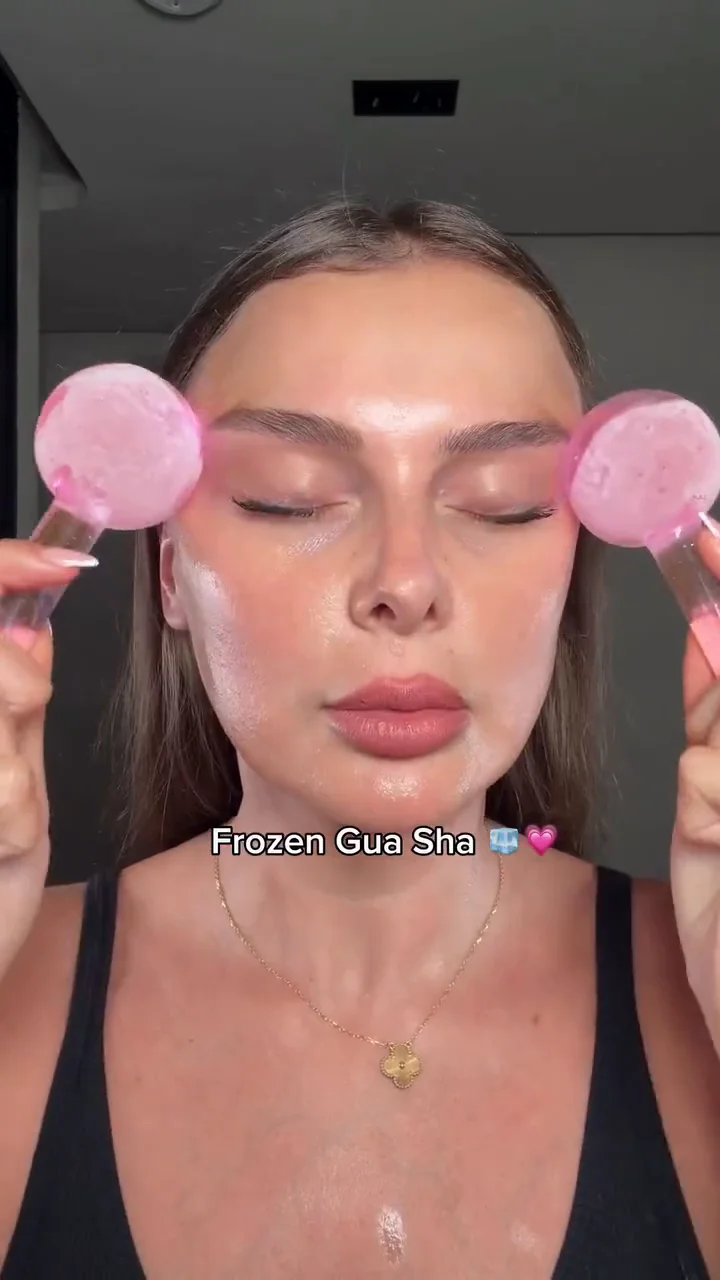
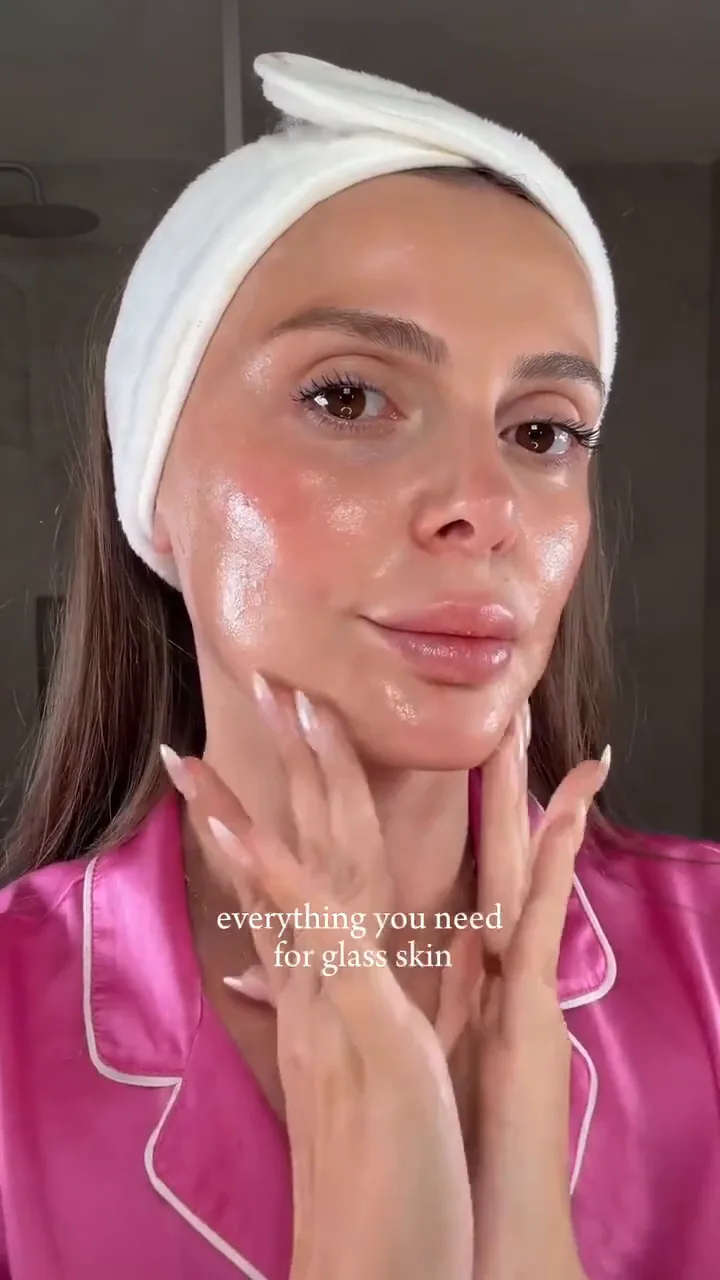
feat: july 2026 round-4 client revisions across home and services
- MediaCarousel (This is CA Agency): reels now play to the end and
  auto-advance on ended instead of a fixed 4s timer cutting them off;
  the timer still drives image slides and autoplay-refused posters, and
  a paused carousel keeps the current reel looping in place
- Featured work strip: Dariia YSL Beauty reel dropped on client request
  (large YSL logo baked into the footage); strip reflows to 3 tiles
  (Anton -> Albina -> Saranda) with the odd tile centered on mobile
- Services page: cards trimmed a size on client request - 3-up grid
  from lg (6 tiles -> 3x2), 4:5 media box on every breakpoint (was 3:4
  on tablet/mobile), smaller overlay title/padding, tighter image sizes
- Performance Marketing card: Huda still replaced with CA talent
  Beatrix (Juvia's Place reel frame, no brand watermark) - Huda is not
  on the roster
- Brand Consultancy card: eyes-closed gua sha still replaced with an
  Albina glass-skin frame from the clean reel-DaYtlPgN9aa
- No DB patch needed this round: the featured strip and service stills
  are code/static assets; the CMS home row's intro mediaItems are
  untouched

diff --git a/components/blocks/MediaCarousel.tsx b/components/blocks/MediaCarousel.tsx
@@ -72,12 +72,17 @@ export default function MediaCarousel({ items, className = '' }: MediaCarouselPr
     setCurrentIndex((prev) => (prev - 1 + items.length) % items.length)
   }, [items.length])
 
-  // Auto-advance only when nothing is suppressing it.
+  // Auto-advance only when nothing is suppressing it. Video slides advance
+  // when playback finishes (onEnded) so a reel is never cut off mid-play; the
+  // timer only drives image slides and video slides whose autoplay was
+  // refused (poster held, `ended` would never fire).
+  const activeItemType = items[currentIndex]?.type
   useEffect(() => {
     if (!isAutoAdvanceEnabled) return
+    if (activeItemType === 'video' && !needsGestureRetry) return
     const timer = setInterval(next, 4000)
     return () => clearInterval(timer)
-  }, [isAutoAdvanceEnabled, next])
+  }, [isAutoAdvanceEnabled, activeItemType, needsGestureRetry, next])
 
   // Pause non-active videos, play active
   useEffect(() => {
@@ -177,10 +182,21 @@ export default function MediaCarousel({ items, className = '' }: MediaCarouselPr
                       poster={item.poster}
                       autoPlay={isActive}
                       muted
-                      loop
                       playsInline
                       preload="none"
                       className="w-full h-full object-cover"
+                      onEnded={(e) => {
+                        if (index !== currentIndex) return
+                        if (isAutoAdvanceEnabled) {
+                          next()
+                        } else {
+                          // Paused (manually or via hover/reduced motion):
+                          // keep the current reel looping in place.
+                          const video = e.currentTarget
+                          video.currentTime = 0
+                          video.play().catch(() => {})
+                        }
+                      }}
                     />
                   ) : (
                     <div className="w-full h-full bg-black/10" />

diff --git a/components/blocks/VideoShowcase.tsx b/components/blocks/VideoShowcase.tsx
@@ -5,7 +5,7 @@ import { posterFor } from '@/lib/data/videos'
 
 interface VideoShowcaseProps {
   videos: Array<{ src: string; alt?: string; poster?: string }>
-  columns?: 2 | 4
+  columns?: 2 | 3 | 4
 }
 
 export default function VideoShowcase({
@@ -14,13 +14,26 @@ export default function VideoShowcase({
 }: VideoShowcaseProps) {
   const gridClasses = {
     2: 'grid-cols-1 md:grid-cols-2',
+    3: 'grid-cols-2 md:grid-cols-3',
     4: 'grid-cols-2 md:grid-cols-4',
   }
 
   return (
     <Stagger className={`grid ${gridClasses[columns]} gap-[24px] mobile:gap-[16px]`} stagger={0.08}>
-      {videos.map((video, index) => (
-        <StaggerItem key={index} className="w-full hover-lift">
+      {videos.map((video, index) => {
+        // On the 2-col mobile grid an odd trailing tile would sit alone in
+        // the left cell; span the row and center it at sibling width instead.
+        const isLoneLastOnMobile =
+          columns === 3 && videos.length % 2 === 1 && index === videos.length - 1
+        return (
+        <StaggerItem
+          key={index}
+          className={`w-full hover-lift${
+            isLoneLastOnMobile
+              ? ' mobile:col-span-2 mobile:w-[calc(50%-8px)] mobile:justify-self-center'
+              : ''
+          }`}
+        >
           <VideoPlayer
             src={video.src}
             poster={video.poster ?? posterFor(video.src)}
@@ -30,7 +43,8 @@ export default function VideoShowcase({
             loop
           />
         </StaggerItem>
-      ))}
+        )
+      })}
     </Stagger>
   )
 }

diff --git a/app/[locale]/services/page.tsx b/app/[locale]/services/page.tsx
@@ -201,7 +201,10 @@ export default async function ServicesPage({ params }: Props) {
           the Work-page case studies). */}
       <section className="bg-background-base pb-[100px] tablet:pb-[80px] mobile:pb-[60px] px-section-x">
         <div className="max-w-container mx-auto">
-          <Stagger className="grid grid-cols-1 md:grid-cols-2 gap-[20px]" stagger={0.1}>
+          {/* July 2026 round 4: cards trimmed a size on client request —
+              3-up from lg (6 tiles → 3×2) and a shorter 4:5 media box on
+              tablet/mobile instead of the taller 3:4. */}
+          <Stagger className="grid grid-cols-1 md:grid-cols-2 lg:grid-cols-3 gap-[20px]" stagger={0.1}>
             {services.map((service) => (
               <StaggerItem
                 key={service.number}
@@ -213,20 +216,20 @@ export default async function ServicesPage({ params }: Props) {
                   className="block focus-visible:outline focus-visible:outline-2 focus-visible:outline-accent-red"
                 >
                   {/* Image Container - Full card background */}
-                  <div className="relative w-full aspect-4/5 tablet:aspect-3/4 mobile:aspect-3/4">
+                  <div className="relative w-full aspect-4/5">
                     <Image
                       src={service.image}
                       alt={t(`${service.key}.title`)}
                       fill
-                      sizes="(max-width: 767px) 100vw, 640px"
+                      sizes="(max-width: 767px) 100vw, (max-width: 1023px) 50vw, 420px"
                       className="object-cover transition-transform duration-700 group-hover:scale-105"
                     />
                     {/* Dark overlay gradient */}
                     <div className="absolute inset-0 bg-linear-to-t from-black/90 via-black/40 to-black/10" />
 
                     {/* Content overlay at bottom */}
-                    <div className="absolute inset-x-0 bottom-0 p-8 tablet:p-6 mobile:p-5">
-                      <h3 className="font-anegra text-[30px] tablet:text-[26px] mobile:text-[23px] font-semibold tracking-[0] text-white mb-4">
+                    <div className="absolute inset-x-0 bottom-0 p-6 mobile:p-5">
+                      <h3 className="font-anegra text-[24px] mobile:text-[21px] font-semibold tracking-[0] text-white mb-3">
                         {service.number}. {t(`${service.key}.title`)}
                       </h3>
                       <p className="text-white/90 text-[14px] leading-[24px] mb-3">
@@ -253,7 +256,7 @@ export default async function ServicesPage({ params }: Props) {
                 href="/contact"
                 className="flex h-full min-h-[320px] w-full flex-col items-center justify-center gap-5 bg-accent-red p-8 text-center focus-visible:outline focus-visible:outline-2 focus-visible:outline-white"
               >
-                <span className="font-anegra text-[30px] tablet:text-[26px] mobile:text-[23px] font-semibold leading-tight text-white">
+                <span className="font-anegra text-[24px] mobile:text-[21px] font-semibold leading-tight text-white">
                   {t('ctaTitle')}
                 </span>
                 <span className="max-w-[380px] text-[14px] leading-[24px] text-white/90">

diff --git a/lib/data/home.ts b/lib/data/home.ts
@@ -1,10 +1,9 @@
 // Featured work videos (all re-encoded to web bitrates, muted, no audio track).
-// July 2026 round 3: client sequence Anton → Albina → Dariia → Saranda. The
-// Asel (glass-skin) and Beatrix (anti-wrinkle) reels are replaced by the two
-// TikTok sources, and every slot is a clean cut with no logo overlays.
+// July 2026 round 4: the Dariia YSL reel is dropped on client request (large
+// YSL logo baked into the footage). Remaining sequence Anton → Albina →
+// Saranda, every slot a clean cut with no logo overlays.
 export const featuredVideos = [
   { src: '/videos/work/anton-tiktok.mp4', alt: 'Anton skincare campaign reel', poster: '/images/video-thumbs/anton-tiktok.jpg' },
   { src: '/videos/work/reel-DaYtlPgN9aa.mp4', alt: 'Glass skin essentials campaign reel', poster: '/images/video-thumbs/reel-DaYtlPgN9aa.jpg' },
-  { src: '/videos/work/ysl-beauty.mp4', alt: 'YSL Beauty campaign', poster: '/images/video-thumbs/ysl-beauty.jpg' },
   { src: '/videos/work/saranda-tiktok.mp4', alt: 'Saranda skincare campaign reel', poster: '/images/video-thumbs/saranda-tiktok.jpg' },
 ]

diff --git a/lib/data/services.ts b/lib/data/services.ts
@@ -101,7 +101,7 @@ export const services: ServiceDetail[] = [
       'Weekly optimisation & reporting',
     ],
     image: '/images/services/performance-marketing.webp',
-    imageAlt: 'Creator mid-application in a high-performing campaign video',
+    imageAlt: 'CA Agency creator applying makeup in a bold color cosmetics campaign video',
   },
   {
     slug: 'brand-consultancy',
@@ -123,7 +123,7 @@ export const services: ServiceDetail[] = [
       'Always-on advisory & management',
     ],
     image: '/images/services/brand-consultancy.webp',
-    imageAlt: 'Creator in a premium skincare self-care campaign video',
+    imageAlt: 'CA Agency creator with a glass-skin glow in a premium skincare campaign video',
   },
 ]
 

diff --git a/app/(site)/page.tsx b/app/(site)/page.tsx
@@ -229,7 +229,7 @@ export default async function HomePage() {
               </div>
             </div>
           </ScrollReveal>
-          <VideoShowcase videos={featuredVideos} columns={4} />
+          <VideoShowcase videos={featuredVideos} columns={3} />
           <ScrollReveal delay={0.2} yOffset={20}>
             <Text color="dark" size="base" className="mt-10 max-w-[700px] text-[16px] leading-[28px]">
               {content.featuredWork.description}

diff --git a/app/[locale]/page.tsx b/app/[locale]/page.tsx
@@ -217,7 +217,7 @@ export default async function HomePage({ params }: Props) {
               </div>
             </div>
           </ScrollReveal>
-          <VideoShowcase videos={featuredVideos} columns={4} />
+          <VideoShowcase videos={featuredVideos} columns={3} />
           <ScrollReveal delay={0.2} yOffset={20}>
             <Text color="dark" size="base" className="mt-10 max-w-[700px] text-[16px] leading-[28px]">
               {t('workDescription')}